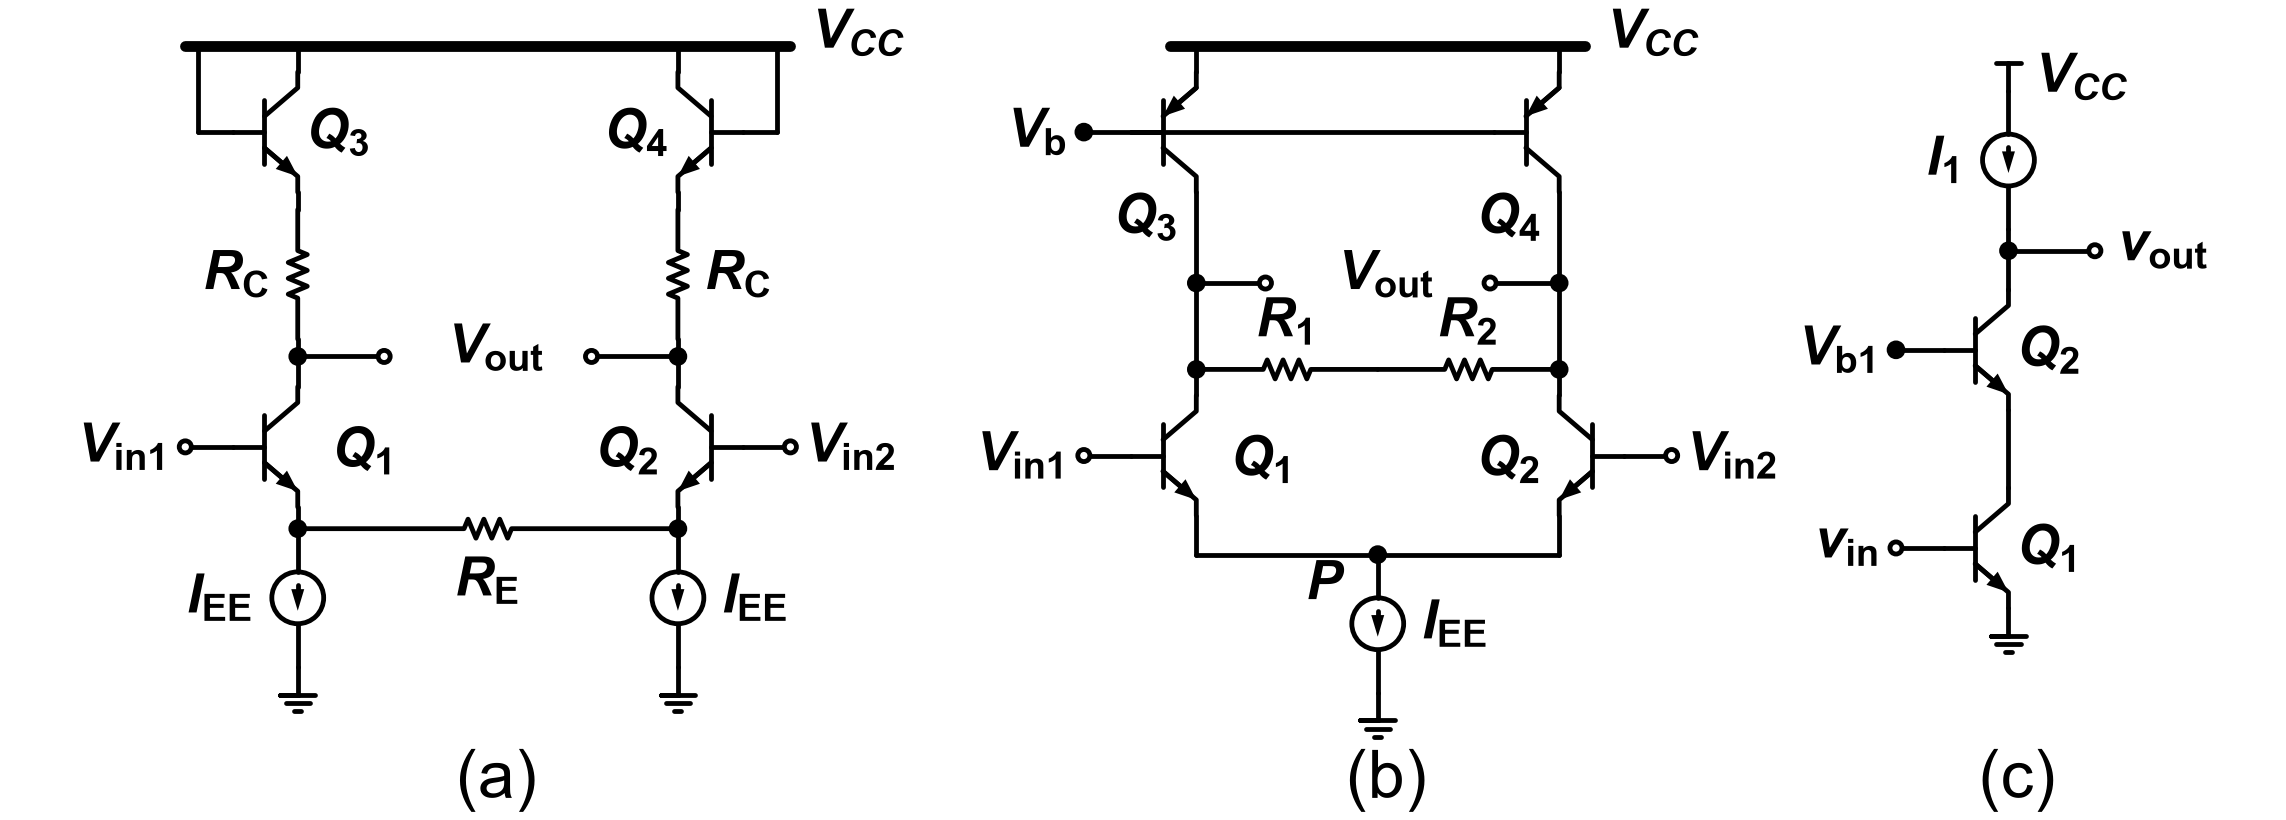
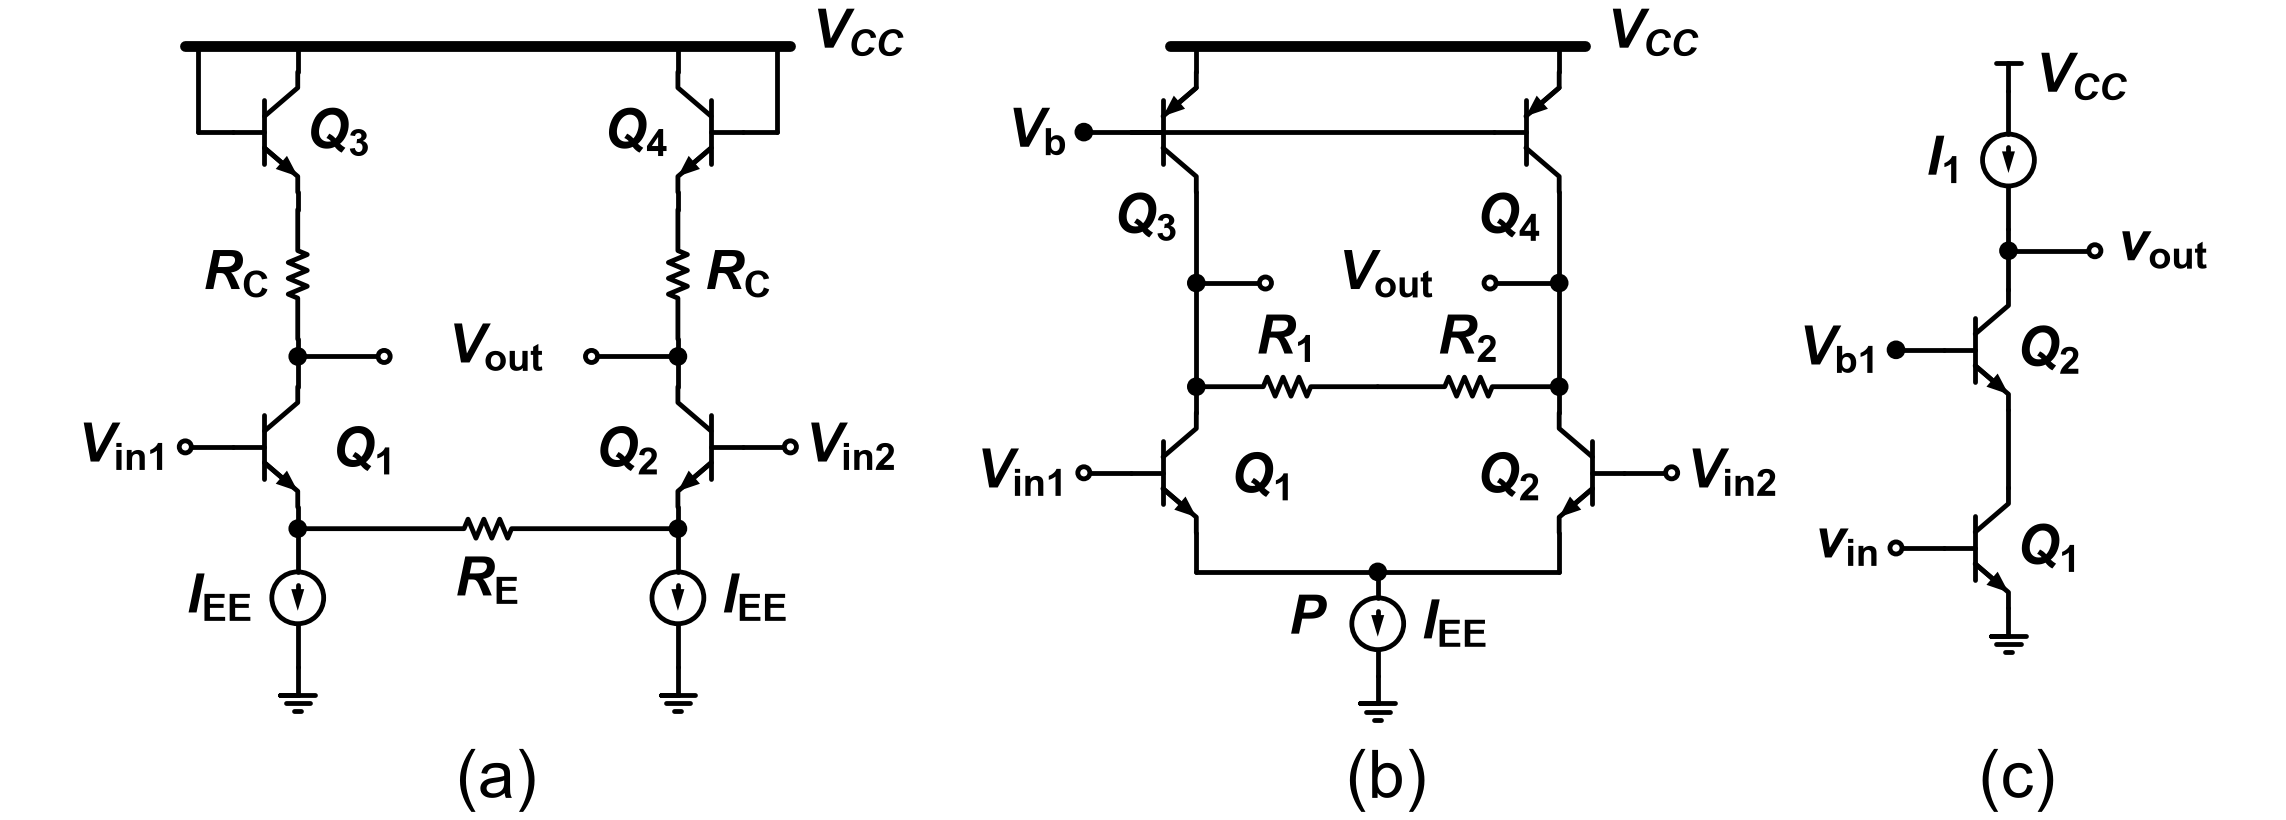
fix(2018-2 중간): apply redraw review (2017-1 C030·2019-1: no findings)

diff --git a/from_the_past/md/2018-2_중간/figures/redrawn/fig-Q1.py b/from_the_past/md/2018-2_중간/figures/redrawn/fig-Q1.py
@@ -87,8 +87,8 @@ def panel_b(d, x0):
     d.add(elm.Line().down().at(q3.collector).length(1.05)); out1 = dot(d)
     d.add(elm.Line().down().at(q4.collector).length(1.05)); out2 = dot(d)
     facing_outputs(d, out1, out2, 0.8)
-    d.add(elm.Line().down().at(out1.center).length(1.0)); s1 = dot(d)
-    d.add(elm.Line().down().at(out2.center).length(1.0)); s2 = dot(d)
+    d.add(elm.Line().down().at(out1.center).length(1.2)); s1 = dot(d)
+    d.add(elm.Line().down().at(out2.center).length(1.2)); s2 = dot(d)
     d.add(Resistor().right().at(s1.center).tox(xm).label(r"$R_\mathrm{1}$", "top", ofst=0.15))
     d.add(Resistor().right().tox(xr).label(r"$R_\mathrm{2}$", "top", ofst=0.15))
     # 입력 쌍: Q1 보통, Q2 좌우 반전
@@ -106,8 +106,8 @@ def panel_b(d, x0):
     d.add(elm.Line().right().tox(xm)); p = dot(d)
     d.add(elm.Line().right().tox(xr))
     d.add(elm.Line().up().toy(q2.emitter.y))
-    tag(d, (xm - 0.5, ybot - 0.1), r"$P$", "right", "top")
-    iee = d.add(elm.SourceI().down().at(p.center).length(1.6).scale(0.6)
+    tag(d, (xm - 0.7, ybot - 0.3), r"$P$", "right", "top")
+    iee = d.add(elm.SourceI().down().at(p.center).length(1.2).scale(0.6)
                 .label(r"$I_\mathrm{EE}$", "bottom", ofst=0.35))
     d.add(elm.Ground().at(iee.end).scale(0.8))
     caption(d, (xm, CAP_Y), "(b)")

diff --git a/docs/superpowers/reports/redraw/2018-2_중간.md b/docs/superpowers/reports/redraw/2018-2_중간.md
@@ -1,0 +1,30 @@
+# 2018-2_중간 다시 그린 그림 검토 (절차 C)
+
+- 대상: 4c1c487 (`fig-Q1`, `fig-Q2`, `fig-Q3`, `fig-Q4`의 `.py`, `.png`)
+- `draw_exam.py … --compare`: 종료 코드 0. ERROR·WARN 없음. `verify_exam.py --recrop --redraw`: 종료 코드 0, 오류 0개.
+- git 상태: 실행 뒤 `figures/` 아래(크롭·`redrawn/`)는 변경 없음. 작업 트리의 `Q1.md`–`Q4.md` 수정은 `## 힌트`·`## 풀이`를 덧붙인 다른 작업분이고(회로·그림 절은 그대로), draw/verify는 md를 쓰지 않는다.
+- 넷리스트: 네 그림(Q1은 (a)(b)(c) 세 패널)의 모든 줄을 따라가며 단자가 적힌 노드에 닿는지 확인했다. 어긋난 연결은 없다. Q1(a) Q3·Q4 다이오드 연결(컬렉터와 베이스 고리 모두 레일), Q1(b) V_b → Q3 베이스 → Q3 막대를 지나 Q4 베이스(이미터·컬렉터 선과 만나지 않음), Q2 M5 다이오드 연결과 V_b 접속점 → 위 M3·아래 M2 게이트, Q3 V_b1 → M3 막대를 지나 M4 게이트도 맞다.
+- 접속점: Q1(a) 4개, Q1(b) 5개(out1·out2 첫·둘째, P), Q1(c) 1개, Q2 4개(게이트 접속점, n1, Vb, Vout), Q3 3개, Q4 3개. 모두 배치 bullet과 같다. 교차는 없다.
+- 반전·화살표: Q1(a) Q4·Q2, Q1(b) Q2, Q2 M5, Q3 M2, Q4 M2 좌우 반전. 모두 bullet과 같다. pmos(Q2 M5·M4·M3, Q3 M3·M4) 화살표는 채널 쪽, nmos는 바깥. pnp(Q1(b) Q3·Q4) 화살표는 막대 쪽, npn은 바깥. 전류원 화살표는 모두 아래.
+- 작성자 알림 4 (Q2 높이): 세로 배선을 늘려 WARN이 없고, 배치 순서·좌우 관계는 크롭과 같다. 타당하다.
+- 라벨 간격: 따로 잰 값(432 dpi, 라벨 잉크와 나머지 잉크의 최소 거리, 단위). **Q1(b) P 0.035, R_1 0.070, 캡션 (b) 0.127**은 아래 지적. 단자 라벨(`gate_terminal`·개방 원)은 V_b 0.143, v_in 0.139, V_b2 0.127, V_b3 0.129, V_b1·V_in1 0.174 이상으로 공통 도우미 수준. 그 밖에 R_2 0.162, R_E 0.197, V_out(Q1(b)) 0.183, R_C·Q·M 라벨 0.218 이상, I_EE·I_REF 0.231 이상, V_DD =1.8V 0.278, P(Q4) 0.324.
+- `.py`: FET는 `nmos`/`pmos`로만, BJT는 `.scale()` 없이 `.anchor().at()`·`.label()`을 `d.add()` 전에 붙였다. `.down()` 소자 라벨은 "top"/"bottom"만 쓴다. `.scale()`은 SourceI(0.6), Ground·Vdd(0.8)에만 있다. `FONT_SIZE`, `LW`, `INCHES_PER_UNIT` 재정의나 lw·fontsize 지정, `save_png` 외 저장은 없다.
+
+## 지적
+
+| 그림 | 항목 | 문제 | 제안 |
+|---|---|---|---|
+| Q1(b) | P 라벨 간격 | Important. `P` 글자 윗변이 두 이미터를 잇는 아래 가로선에서 0.035단위(인쇄 약 0.18 mm) 떨어져 있어 인쇄하면 선에 붙어 보인다. `tag(d, (xm - 0.5, ybot - 0.1), "$P$", "right", "top")`의 세로 여유가 0.1단위뿐이다. | 라벨 위치를 `ybot - 0.25` 정도로 내린다(bullet대로 P 접속점 아래 왼쪽 유지). I_EE 원은 x ≥ xm − 0.3 쪽이라 겹치지 않는다. |
+| Q1(b) | R_1 라벨 간격 | Minor. `R_1` 글자 왼쪽 위가 out1 첫 접속점에서 나온 출력 가로선 끝(개방 원 근처)과 0.070단위로 거의 닿는다. R_2는 0.162. | out1 첫 → 둘째 접속점 세로선(현재 1.0)을 1.2 정도로 늘리거나 출력선 길이(0.8)를 조금 줄인다. |
+| Q1(b) | 캡션 간격 | Minor. 캡션 "(b)"가 I_EE 아래 접지 기호와 0.127단위로 가깝다. (a)·(c) 캡션은 다른 획과 충분히 떨어져 있다. | I_EE 길이(1.6)를 조금 줄이거나 P 아래 배선을 짧게 해 (b) 접지를 올린다. |
+
+Critical 지적은 없다.
+
+## 손글씨 확인 (`> 참고:` 항목)
+
+| 그림 | 손글씨 항목 | 다시 그린 그림 |
+|---|---|---|
+| Q1 | 크롭 안 손글씨 없음 (v_out, v_in 소문자는 인쇄) | 손글씨 획 없음. (c)의 v_out, v_in은 소문자로 그려져 있다 |
+| Q2 | 크롭 안 손글씨 없음 | 손글씨 획 없음 |
+| Q3 | 크롭 안 손글씨 없음 | 손글씨 획 없음 |
+| Q4 | 크롭 안 손글씨 없음 (v_out1, v_out2 소문자는 인쇄) | 손글씨 획 없음. v_out1, v_out2는 소문자로 그려져 있다 |

diff --git a/docs/superpowers/reports/redraw/2017-1_중간_C030.md b/docs/superpowers/reports/redraw/2017-1_중간_C030.md
@@ -1,0 +1,30 @@
+# 2017-1_중간_C030 다시 그린 그림 검토 (절차 C)
+
+- 대상: 4c1c487 (`fig-Q1`, `fig-Q2`, `fig-Q3`, `fig-Q3-2`의 `.py`, `.png`)
+- `draw_exam.py … --compare`: 종료 코드 0. ERROR·WARN 없음(글자 크기·인쇄 높이 모두 허용 범위). `verify_exam.py --recrop --redraw`: 종료 코드 0, 오류 0개.
+- git 상태: 실행 뒤 `figures/` 아래(크롭·`redrawn/`)는 변경 없음. 작업 트리의 `Q1.md`–`Q3.md` 수정은 `## 힌트`·`## 풀이`를 덧붙인 다른 작업분이고(회로·그림 절은 그대로), draw/verify는 md를 쓰지 않는다.
+- 넷리스트: 네 그림의 모든 줄을 따라가며 단자가 적힌 노드에 닿는지 확인했다. 어긋난 연결은 없다. Q1 다이오드 연결(n1 → 오른쪽 → 아래 게이트 접속점 → M1·M3 게이트), Q3 Q7–Q8·Q5–Q6·Q3–Q4 베이스 공통선과 Q3→Q1·Q4→Q2 꺾인 선, Q3-2 Q7·Q8 베이스–R_1–첫 접속점 사각 고리(두 고리는 가운데에서 떨어져 있음)도 맞다.
+- 접속점: Q1 3개(n1, 게이트 접속점, Vout), Q2 3개(out1, out2, n1), Q3 3개(out1, out2, n5), Q3-2 6개(out1 첫·둘째, out2 첫·둘째, n3, n4). 모두 배치 bullet과 같다. 교차는 없다.
+- 반전·화살표: Q1 M1, Q2 M3, Q3 Q7·Q5·Q3·Q2, Q3-2 Q7·Q2 좌우 반전. 모두 bullet과 같다. nmos 소스 화살표는 모두 바깥(작성자 알림 1: md는 "소스 화살표 없는 기호"지만 공통 스타일 `nmos`가 늘 그린다. 화살표 방향이 nmos(바깥)로 맞아 종류가 바뀌어 보이지 않는다. 허용). pnp(Q7·Q8) 화살표는 막대 쪽, npn 화살표는 바깥. 전류원(I_REF, I_EE) 화살표는 모두 아래.
+- 작성자 알림 2 (`wire_end`): `gate_terminal`은 점·원을 붙이므로 단자 기호 없는 선 끝(Vin, Vout, V_in1, V_in2, V_b1)을 `Line`+`Label`로 그린 도우미는 타당하다. 공통 기호를 새로 만든 것이 아니고 크기·굵기 지정도 없다.
+- 작성자 알림 3 (Q3 꺾인 선): Q1·Q2를 바깥으로 0.3단위(JOG) 옮겨 Q3 이미터 → 아래 → 바깥 0.3 → 아래 Q1 컬렉터로 그렸다. md "꺾인 선"과 맞고 연결도 맞다. 타당하다.
+- 작성자 알림 4 (높이): Q3·Q3-2 세로 배선을 늘린 결과 WARN이 없고, 크롭과 비교해 배치 순서·좌우 관계가 그대로다. 타당하다.
+- 라벨 간격: 따로 잰 값(432 dpi, 라벨 잉크와 나머지 잉크의 최소 거리, 단위). 선 끝 라벨 Vin 0.125, V_in1·V_b1 0.185, Q3-2 R_1 0.172, Q3 + 0.167 (선 끝 라벨은 `gate_terminal` 라벨과 같은 수준). 그 밖의 소자·노드 라벨은 R_D 0.220, R_S 0.223, R_C + ΔR_C·R_E 0.209, R_2 0.208, M·Q 라벨 0.225 이상, V_b1–V_b3 0.312, V_CC 0.227 이상. 겹치는 라벨은 없다.
+- `.py`: FET는 `nmos`로만, BJT는 `elm.BjtNpn`/`BjtPnp`를 `.scale()` 없이 `.anchor().at()`를 `d.add()` 전에 붙여 놓았다. `.down()` 소자(Resistor, SourceI) 라벨은 "top"/"bottom"만 쓴다. `.scale()`은 SourceI(0.6), Ground·Vdd(0.8)에만 있다. `FONT_SIZE`, `LW`, `INCHES_PER_UNIT` 재정의나 lw·fontsize 지정, `save_png` 외 저장은 없다. `V_{CC}` 첨자 이탤릭은 2021 그림들과 같은 기존 관례다.
+
+## 지적
+
+지적 없음
+
+## 손글씨 확인 (`> 참고:` 항목)
+
+| 그림 | 손글씨 항목 | 다시 그린 그림 |
+|---|---|---|
+| Q1 | M_2 라벨 오른쪽 "↓1mA'" | 없음 |
+| Q1 | M1–M3 사이 위쪽 희미한 회색 획 (인쇄 아님) | 없음 (다이오드 연결선 한 줄만 있음) |
+| Q2 | (`> 참고:` 줄 없음) | — |
+| Q3 | 왼쪽 위 모서리 빨간 별표 획 | 없음 |
+| Q3 | Q5–Q3 왼쪽 파란 "Rop"·"Ron" 글자와 화살표 | 없음 |
+| Q3 | 오른쪽 가장자리 파란 "gm5"·"rπ5" 글자 조각 | 없음 |
+| Q3-2 | out1 첫 접속점 왼쪽 파란 "Rop" 글자와 화살표 | 없음 |
+| Q3-2 | 오른쪽 아래 I_EE 옆 파란 "rπ" 글자와 손으로 그린 저항 획 | 없음 (I_EE 라벨과 전류원·접지만 있음) |

diff --git a/docs/superpowers/reports/redraw/2019-1_중간.md b/docs/superpowers/reports/redraw/2019-1_중간.md
@@ -1,0 +1,28 @@
+# 2019-1_중간 다시 그린 그림 검토 (절차 C)
+
+- 대상: 4c1c487 (`fig-Q1`, `fig-Q2`, `fig-Q3`, `fig-Q4`의 `.py`, `.png`)
+- `draw_exam.py … --compare`: 종료 코드 0. ERROR·WARN 없음. `verify_exam.py --recrop --redraw`: 종료 코드 0, 오류 0개.
+- git 상태: 실행 뒤 `figures/` 아래(크롭·`redrawn/`)는 변경 없음. 작업 트리의 `Q1.md`–`Q5.md` 수정은 `## 힌트`·`## 풀이`를 덧붙인 다른 작업분이고(회로·그림 절은 그대로), draw/verify는 md를 쓰지 않는다.
+- 넷리스트: 네 그림(Q1·Q2·Q3은 (a)(b) 두 패널)의 모든 줄을 따라가며 단자가 적힌 노드에 닿는지 확인했다. 어긋난 연결은 없다. Q1(a) M5 드레인 → 긴 세로선 → n1, Q2(a) 위 n1 → 다이오드 연결 → 게이트 가로선 → 아래 n1 → M5 게이트, 아래 n1 → M5 접지 아래로 돌아 M2 게이트, M5 드레인 → n2, M4 다이오드 연결 → M3 게이트, Q3(a) Q3 컬렉터 → n1 긴 가로선과 Q3 이미터 위 별도 V_CC T 기호도 맞다.
+- 접속점: Q1(a) 2개, Q1(b) 4개, Q2(a) 7개(위 n1, M_REF 게이트, 아래 n1, n2, M4 게이트, Vout, Vin), Q2(b) 4개, Q3(a) 2개, Q3(b) 4개, Q4 3개. 모두 배치 bullet과 같다. 교차는 없다.
+- 반전·화살표: Q1(b) Q2, Q2(a) M_REF·M4·M1, Q2(b) M2, Q3(a) Q3(pnp), Q3(b) Q4·Q2, Q4 M2 좌우 반전. 모두 bullet과 같다. pmos 화살표는 채널 쪽, nmos는 바깥, pnp는 막대 쪽, npn은 바깥. 전류원 화살표는 모두 아래(Q2(a) I_REF는 `up().reverse()`로 아래를 가리킴을 그림에서 확인).
+- 공통선: Q1(b) V_b 선은 Q3 막대를, Q2(b) V_b 선은 M3 채널 막대를, Q4 V_b3·V_b1 선은 M5·M3 채널 막대를 지나 오른쪽 짝의 베이스·게이트에 닿는다. 원본 그대로이고 이미터·컬렉터(소스·드레인) 선과는 만나지 않는다.
+- 작성자 알림 5 (Q2(b) I_SS): 원본은 곧은 글꼴이지만 FORMAT-EXAM.md "본 글자는 이탤릭, 원본에서 굵지 않은 정자체로 인쇄된 라벨도 굵게"에 따라 굵은 이탤릭 I + 정자체 첨자 SS로 그렸다. 규칙과 맞아 타당하다.
+- 라벨 간격: 따로 잰 값(432 dpi, 라벨 잉크와 나머지 잉크의 최소 거리, 단위). 단자 라벨(`gate_terminal`·개방 원)은 V_b2 0.127, V_b3 0.139, V_b 0.140, V_in·V_b4 0.150, V_b1 0.174 이상으로 공통 도우미 수준. Q4 M_3 0.164(드레인 선 왼쪽, bullet 위치). 그 밖에 R_S 0.197, R_E 0.197, R_SS 0.200, R_C 0.209, M·Q 라벨 0.220 이상, I_SS·I_EE·I_REF 0.231 이상, V_DD = 1.8 V 0.275. 겹치는 라벨은 없다.
+- `.py`: FET는 `nmos`/`pmos`로만, BJT는 `.scale()` 없이 `.anchor().at()`·`.label()`을 `d.add()` 전에 붙였다. `.down()` 소자 라벨은 "top"/"bottom"만 쓴다(Q2(a) `SourceI().up().reverse()`도 "top"). `.scale()`은 SourceI(0.6), Ground·Vdd(0.8)에만 있다. `FONT_SIZE`, `LW`, `INCHES_PER_UNIT` 재정의나 lw·fontsize 지정, `save_png` 외 저장은 없다.
+
+## 지적
+
+지적 없음
+
+## 손글씨 확인 (`> 참고:` 항목)
+
+2019-1은 깨끗한 문제지라 손글씨 항목이 없다. `> 참고:` 줄의 인쇄 관련 메모를 대신 확인했다.
+
+| 그림 | `> 참고:` 항목 | 다시 그린 그림 |
+|---|---|---|
+| Q1(b) | 베이스 공통선이 Q3 베이스 막대를 가로질러 그려짐 | 같게 그려짐 (Q3 막대를 지나 Q4 베이스) |
+| Q2(b) | 게이트 공통선이 M3 채널 막대를 가로질러 그려짐 | 같게 그려짐 |
+| Q2(b) | 두 I_SS 라벨이 곧은 글꼴 | 통일 규칙대로 굵은 이탤릭 (작성자 알림 5, 타당) |
+| Q3 | (`> 참고:` 줄 없음) | 손글씨 획 없음 |
+| Q4 | 두 게이트 공통선이 M5, M3 채널 막대를 가로질러 그려짐 | 같게 그려짐 |
